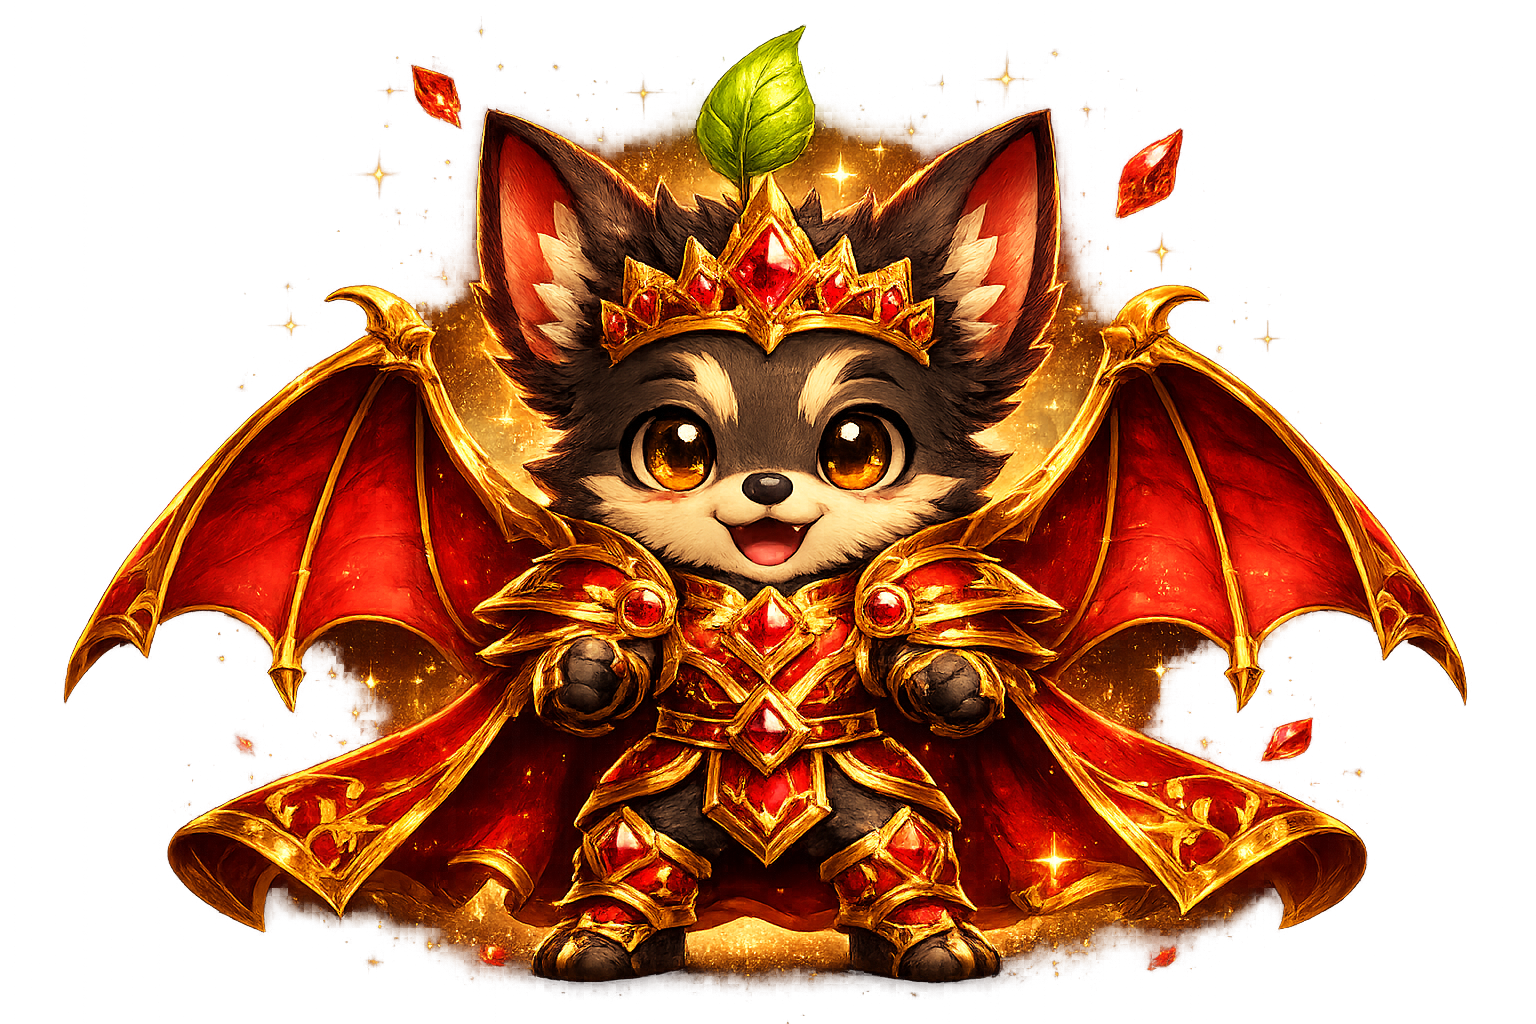
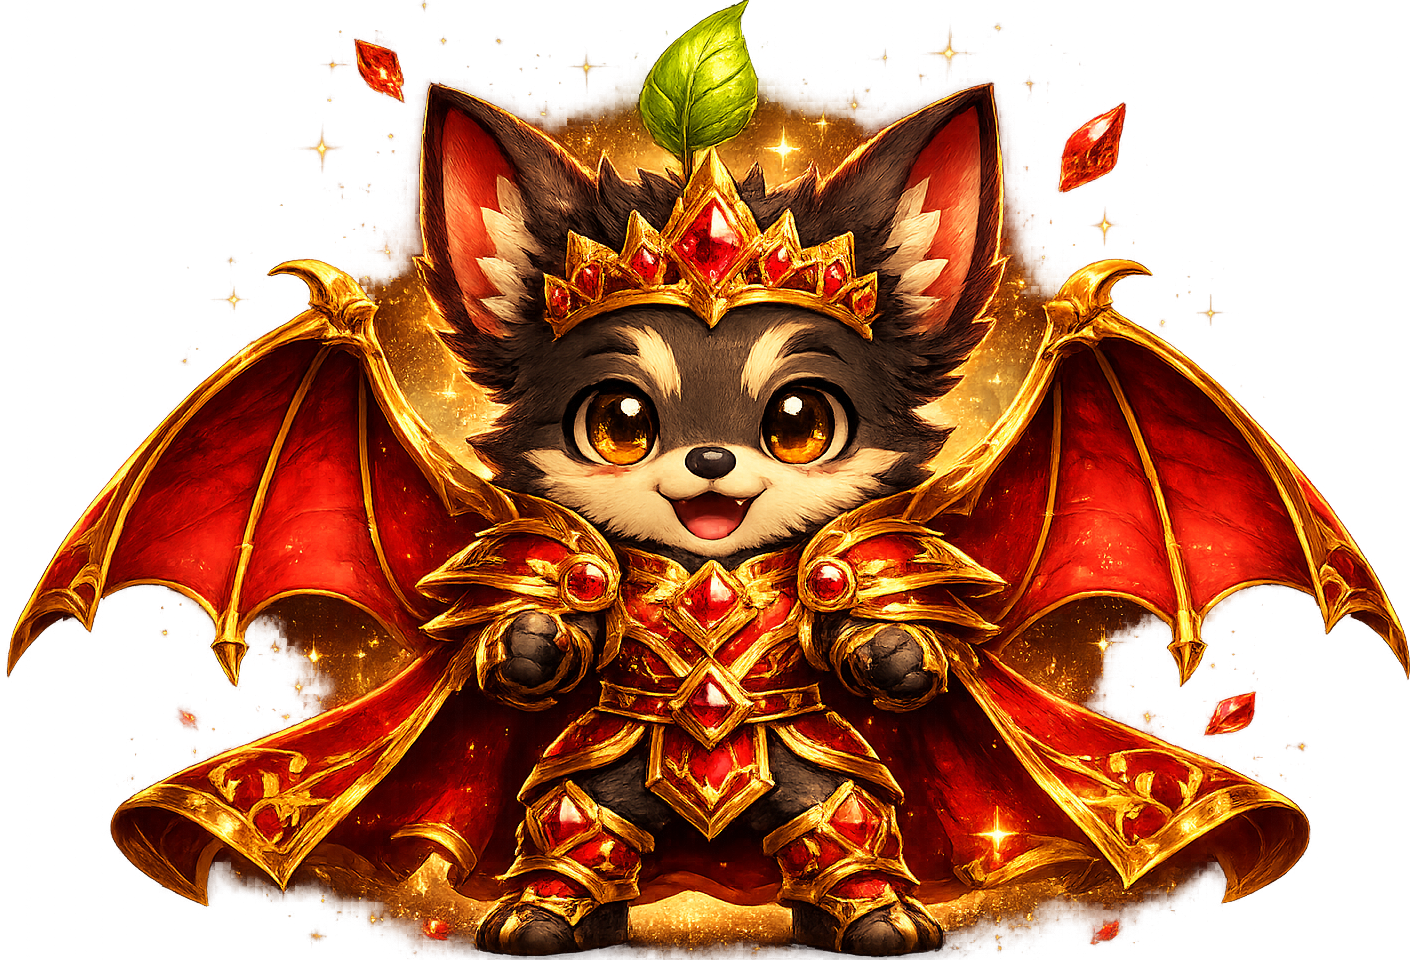
FINAL HOPEFULAY

diff --git a/backend/app/static/style.css b/backend/app/static/style.css
@@ -150,6 +150,22 @@ body {
 }
 #feed-btn:active { transform: scale(0.95); box-shadow: none; }
 
+/* Side-by-side Feed + Demo buttons on pet page */
+.pet-action-btn {
+  width: auto !important; margin-top: 0 !important;
+  padding: 14px 20px !important; font-size: 15px !important;
+  border-radius: 99px !important; font-weight: 700; cursor: pointer;
+  transition: transform 0.15s, box-shadow 0.15s; font-family: 'DM Sans', sans-serif;
+  white-space: nowrap;
+}
+.pet-action-btn:active { transform: scale(0.95); }
+#feed-btn.pet-action-btn { flex: 2; max-width: 220px; }
+#poke-btn.pet-action-btn {
+  flex: 1; max-width: 140px;
+  background: var(--surface-2); color: var(--muted);
+  border: 1px solid var(--border); box-shadow: none;
+}
+
 #gen-btn {
   background: linear-gradient(135deg, #5DC98A, #3DA86A);
   color: #0F2419; font-weight: 800; border-radius: 99px;
@@ -401,6 +417,74 @@ select.form-input { cursor: pointer; }
 
 /* ── Pet interaction ── */
 .pet-bubble-wrap { position: relative; display: inline-block; overflow: visible; }
+
+/* Dashboard idle float */
+@keyframes pet-idle-float {
+  0%,100% { transform: translateY(0px) rotate(0deg); }
+  25%      { transform: translateY(-10px) rotate(0.6deg); }
+  60%      { transform: translateY(-6px) rotate(-0.4deg); }
+  80%      { transform: translateY(-12px) rotate(0.3deg); }
+}
+.pet-idle-float { animation: pet-idle-float 3.4s ease-in-out infinite; transform-origin: bottom center; }
+
+/* Random twitches — applied one at a time, removed on animationend */
+@keyframes _tw-wiggle {
+  0%   { transform: rotate(0deg); }
+  15%  { transform: rotate(-9deg) scaleX(0.9); }
+  32%  { transform: rotate(10deg) scaleX(1.06); }
+  50%  { transform: rotate(-6deg); }
+  68%  { transform: rotate(5deg); }
+  84%  { transform: rotate(-2deg); }
+  100% { transform: rotate(0deg); }
+}
+@keyframes _tw-jump {
+  0%   { transform: translateY(0) scaleX(1) scaleY(1); }
+  18%  { transform: translateY(0) scaleX(1.22) scaleY(0.72); }
+  46%  { transform: translateY(-32px) scaleX(0.88) scaleY(1.14); }
+  72%  { transform: translateY(-8px) scaleX(1) scaleY(1); }
+  90%  { transform: translateY(-2px) scaleX(1.03) scaleY(0.97); }
+  100% { transform: translateY(0) scaleX(1) scaleY(1); }
+}
+@keyframes _tw-squish {
+  0%   { transform: scaleX(1) scaleY(1); }
+  20%  { transform: scaleX(1.3) scaleY(0.7); }
+  40%  { transform: scaleX(0.85) scaleY(1.18); }
+  60%  { transform: scaleX(1.12) scaleY(0.9); }
+  80%  { transform: scaleX(0.96) scaleY(1.04); }
+  100% { transform: scaleX(1) scaleY(1); }
+}
+@keyframes _tw-nod {
+  0%   { transform: rotate(0deg) translateY(0); }
+  22%  { transform: rotate(-14deg) translateY(-5px); }
+  44%  { transform: rotate(9deg) translateY(3px); }
+  66%  { transform: rotate(-5deg) translateY(-2px); }
+  84%  { transform: rotate(2deg); }
+  100% { transform: rotate(0deg) translateY(0); }
+}
+@keyframes _tw-peek {
+  0%   { transform: translateX(0) rotate(0deg); }
+  22%  { transform: translateX(-20px) rotate(-5deg); }
+  54%  { transform: translateX(24px) rotate(4deg); }
+  80%  { transform: translateX(-6px) rotate(-1deg); }
+  100% { transform: translateX(0) rotate(0deg); }
+}
+@keyframes _tw-spaz {
+  0%   { transform: translate(0,0) rotate(0deg); }
+  10%  { transform: translate(-6px,-9px) rotate(-6deg) scaleX(0.88); }
+  22%  { transform: translate(8px,4px) rotate(8deg) scaleY(0.88); }
+  34%  { transform: translate(-5px,7px) rotate(-5deg) scaleX(1.12); }
+  46%  { transform: translate(9px,-6px) rotate(9deg) scaleY(1.12); }
+  58%  { transform: translate(-7px,3px) rotate(-7deg); }
+  70%  { transform: translate(5px,-5px) rotate(5deg); }
+  84%  { transform: translate(-2px,4px) rotate(-2deg); }
+  100% { transform: translate(0,0) rotate(0deg); }
+}
+.pet-tw-wiggle { animation: _tw-wiggle 0.5s  ease-in-out forwards; transform-origin: bottom center; }
+.pet-tw-jump   { animation: _tw-jump   0.62s ease-in-out forwards; transform-origin: bottom center; }
+.pet-tw-squish { animation: _tw-squish 0.48s ease-in-out forwards; transform-origin: bottom center; }
+.pet-tw-nod    { animation: _tw-nod    0.56s ease-in-out forwards; transform-origin: bottom center; }
+.pet-tw-peek   { animation: _tw-peek   0.62s ease-in-out forwards; transform-origin: bottom center; }
+.pet-tw-spaz   { animation: _tw-spaz   0.72s ease-in-out forwards; transform-origin: center; }
 
 @keyframes pet-bounce {
   0%   { transform: scale(1); }

diff --git a/backend/app/static/app.js b/backend/app/static/app.js
@@ -159,6 +159,34 @@ function _showCombo(wrap, n) {
   setTimeout(() => el.remove(), 900);
 }
 
+const _IDLE_TWITCHES = ['pet-tw-wiggle','pet-tw-jump','pet-tw-squish','pet-tw-nod','pet-tw-peek','pet-tw-spaz'];
+
+function _clearIdleClasses(el) {
+  el.classList.remove('pet-idle-float', ..._IDLE_TWITCHES);
+}
+
+function startIdleAnimations(el) {
+  _clearIdleClasses(el);
+  el.classList.add('pet-idle-float');
+  el._hasIdle = true;
+
+  function scheduleNext() {
+    el._idleTimer = setTimeout(() => {
+      if (el.classList.contains('pet-bounce')) { scheduleNext(); return; }
+      _clearIdleClasses(el);
+      const tw = _IDLE_TWITCHES[Math.floor(Math.random() * _IDLE_TWITCHES.length)];
+      el.classList.add(tw);
+      el.addEventListener('animationend', () => {
+        el.classList.remove(tw);
+        el.classList.add('pet-idle-float');
+        scheduleNext();
+      }, { once: true });
+    }, 4000 + Math.random() * 7000);
+  }
+
+  scheduleNext();
+}
+
 function bindPetClick(imgEl, petType) {
   imgEl.style.cursor = 'pointer';
   imgEl.addEventListener('click', () => {
@@ -169,11 +197,18 @@ function bindPetClick(imgEl, petType) {
     clearTimeout(_comboTimer);
     _comboTimer = setTimeout(() => { _comboCount = 0; }, 900);
 
+    // Interrupt idle before bounce
+    clearTimeout(imgEl._idleTimer);
+    _clearIdleClasses(imgEl);
+
     // Squish-bounce (restart each click)
     imgEl.classList.remove('pet-bounce');
     void imgEl.offsetWidth; // force reflow so animation restarts
     imgEl.classList.add('pet-bounce');
-    imgEl.addEventListener('animationend', () => imgEl.classList.remove('pet-bounce'), { once: true });
+    imgEl.addEventListener('animationend', () => {
+      imgEl.classList.remove('pet-bounce');
+      if (imgEl._hasIdle) startIdleAnimations(imgEl);
+    }, { once: true });
 
     _spawnRing(wrap);
     _spawnParticles(wrap);
@@ -365,6 +400,7 @@ async function initDashboard() {
       dashPetEl.classList.add('pet-bubble-wrap');
       dashPetEl.appendChild(dImg);
       bindPetClick(dImg, pet.pet_type);
+      startIdleAnimations(dImg);
 
       const moodEl = document.getElementById('dash-pet-mood');
       moodEl.textContent = isChampion
@@ -739,6 +775,7 @@ function renderPet(pet, isChampion = false) {
   if (isChampion) img.style.filter = 'drop-shadow(0 0 18px rgba(255,215,0,0.85))';
   petEl.appendChild(img);
   bindPetClick(img, pet.pet_type);
+  startIdleAnimations(img);
 
   document.getElementById('pet-stage').textContent = type.name;
   const stageNameEl = document.getElementById('pet-stage-name');

diff --git a/backend/app/templates/pet.html b/backend/app/templates/pet.html
@@ -10,9 +10,9 @@
     <div id="hp-fill" class="hp-fill" style="width:100%;background:#4caf50"></div>
   </div>
   <p id="hp-text" class="hp-text">100/100 HP</p>
-  <div style="display:flex;gap:8px;margin-top:12px;justify-content:center">
-    <button id="feed-btn" class="btn btn-primary">Feed (+10 HP)</button>
-    <button id="poke-btn" class="btn btn-outline" style="font-size:12px;color:var(--muted)">Demo −10 HP</button>
+  <div style="display:flex;gap:10px;margin-top:12px;justify-content:center">
+    <button id="feed-btn" class="btn btn-primary pet-action-btn">Feed</button>
+    <button id="poke-btn" class="btn btn-outline pet-action-btn">Starve (Demo)</button>
   </div>
 </div>
 